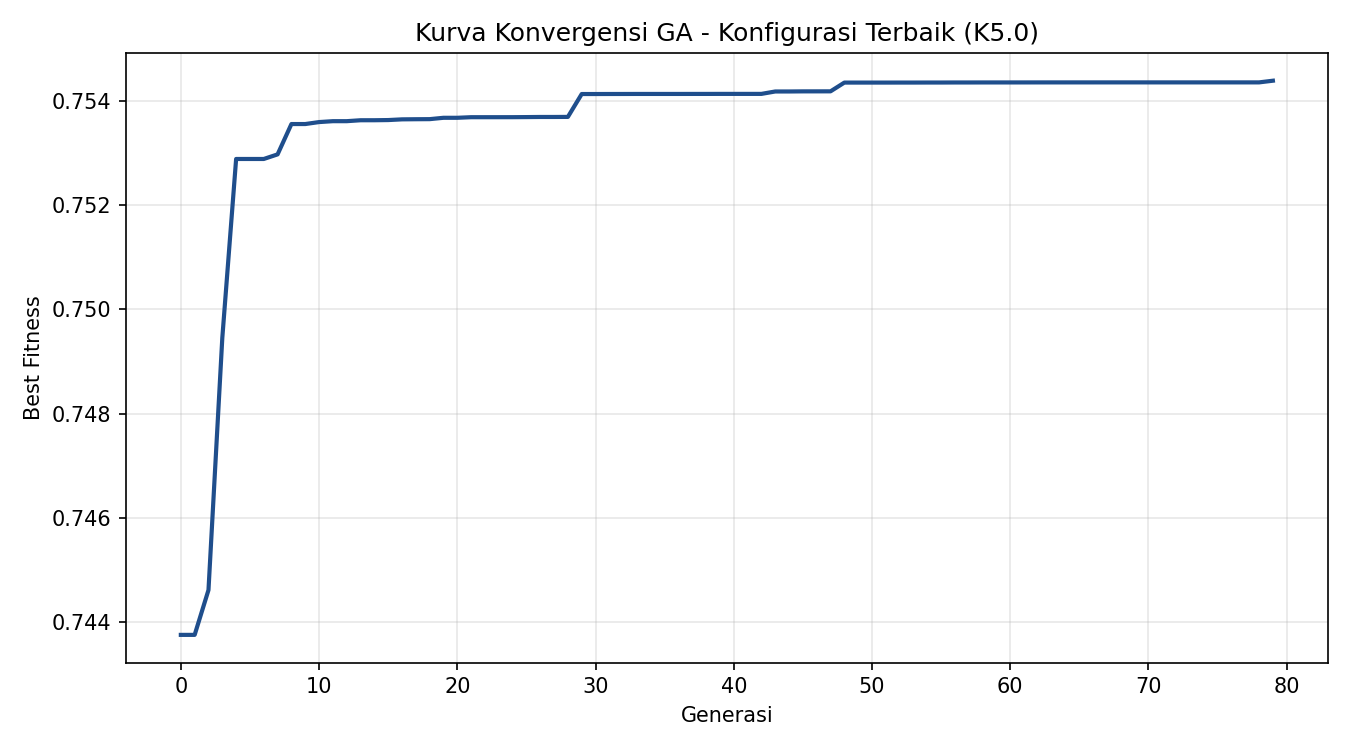
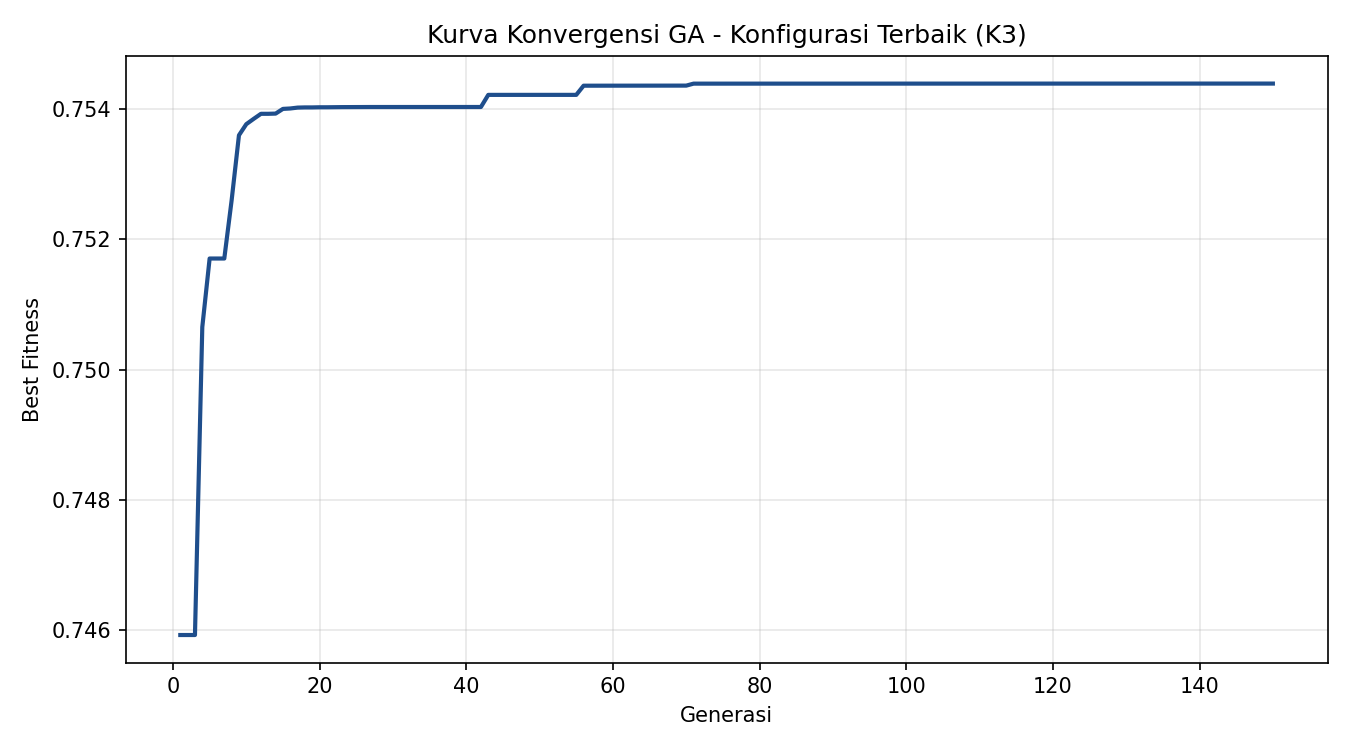
new update

diff --git a/README.md b/README.md
@@ -323,6 +323,74 @@ Interpretasi:
 
 Baseline equal-weight sudah menunjukkan hubungan positif sedang dengan `delivery_time`. Artinya, fitur risiko yang dibuat cukup relevan. Target GA adalah mencari bobot yang lebih baik daripada baseline tersebut.
 
+## Desain Algoritma (Genetic Algorithm)
+
+Optimasi bobot dilakukan dengan **Genetic Algorithm**. Setiap kromosom merepresentasikan satu kombinasi lima bobot faktor risiko, dengan kendala `Σw = 1`.
+
+### Flowchart
+
+![Flowchart Genetic Algorithm](flowchart_ga.png)
+
+> Catatan: simpan gambar flowchart sebagai `flowchart_ga.png` pada folder yang sama agar tampil.
+
+### Representasi & Operator
+
+| Komponen | Pilihan |
+|---|---|
+| Kromosom | `[w_distance, w_traffic, w_weather, w_vehicle, w_agent]`, dengan `Σw = 1` |
+| Fitness | `(Spearman(priority_score, delivery_time) + 1) / 2` |
+| Seleksi | Tournament Selection (k = 3) |
+| Crossover | One-Point Crossover + renormalisasi (Pc = 0.8) |
+| Mutasi | Reset gen + renormalisasi (Pm = 0.1) |
+| Elitism | 10% individu terbaik dipertahankan |
+
+### Pseudocode
+
+```text
+MULAI
+  data        ← muat dataset (5 feature score + delivery_time)
+  populasi    ← N bobot acak, dinormalisasi (Σw = 1)
+  best        ← evaluasi fitness awal
+
+  UNTUK generasi = 1..MAX:
+      elite          ← 10% individu terbaik
+      SELAMA populasi belum penuh:
+          p1, p2     ← TournamentSelection(k = 3)
+          JIKA acak < Pc: c1, c2 ← OnePointCrossover(p1, p2); renormalisasi
+          JIKA acak < Pm: reset 1 gen lalu renormalisasi
+      populasi       ← elite + offspring
+      best           ← update jika fitness lebih tinggi
+
+  TAMPILKAN best_weights, best_fitness
+SELESAI
+
+FITNESS(w):
+  priority_score ← Σ (w[k] × score[k])
+  KEMBALIKAN (Spearman(priority_score, delivery_time) + 1) / 2
+```
+
+Implementasi lengkap: `03_genetic_algorithm_implementation.ipynb`.
+
+## Hasil Eksperimen
+
+Lima konfigurasi parameter diuji pada `04_testing_eksperimen.ipynb`. **Seluruh konfigurasi konvergen ke fitness yang setara (~0,754 / Spearman ~0,509)** dan **mengungguli baseline equal-weight (Spearman 0,4295)**. Perbedaan parameter berdampak pada efisiensi dan kecepatan konvergensi, bukan kualitas akhir.
+
+Konfigurasi terbaik: **K3** (Populasi 100, Generasi 150, Crossover 0,9, Mutasi 0,2) dengan fitness **0,7544** (Spearman **0,5088**).
+
+Bobot optimal yang ditemukan:
+
+| Faktor | Bobot |
+|---|---:|
+| `agent` (kualitas kurir) | 0,666 |
+| `traffic` | 0,141 |
+| `distance` | 0,123 |
+| `weather` | 0,069 |
+| `vehicle` | 0,001 |
+
+GA menemukan bahwa **kualitas kurir paling memengaruhi keterlambatan**, jauh dari asumsi bobot sama rata. Konvergensi tercapai cepat (sekitar generasi 10–30).
+
+![Grafik Konvergensi](grafik_perbandingan_konfigurasi.png)
+
 ## Luaran yang Relevan dengan Rubrik
 
 | Rubrik | Output yang Disediakan |